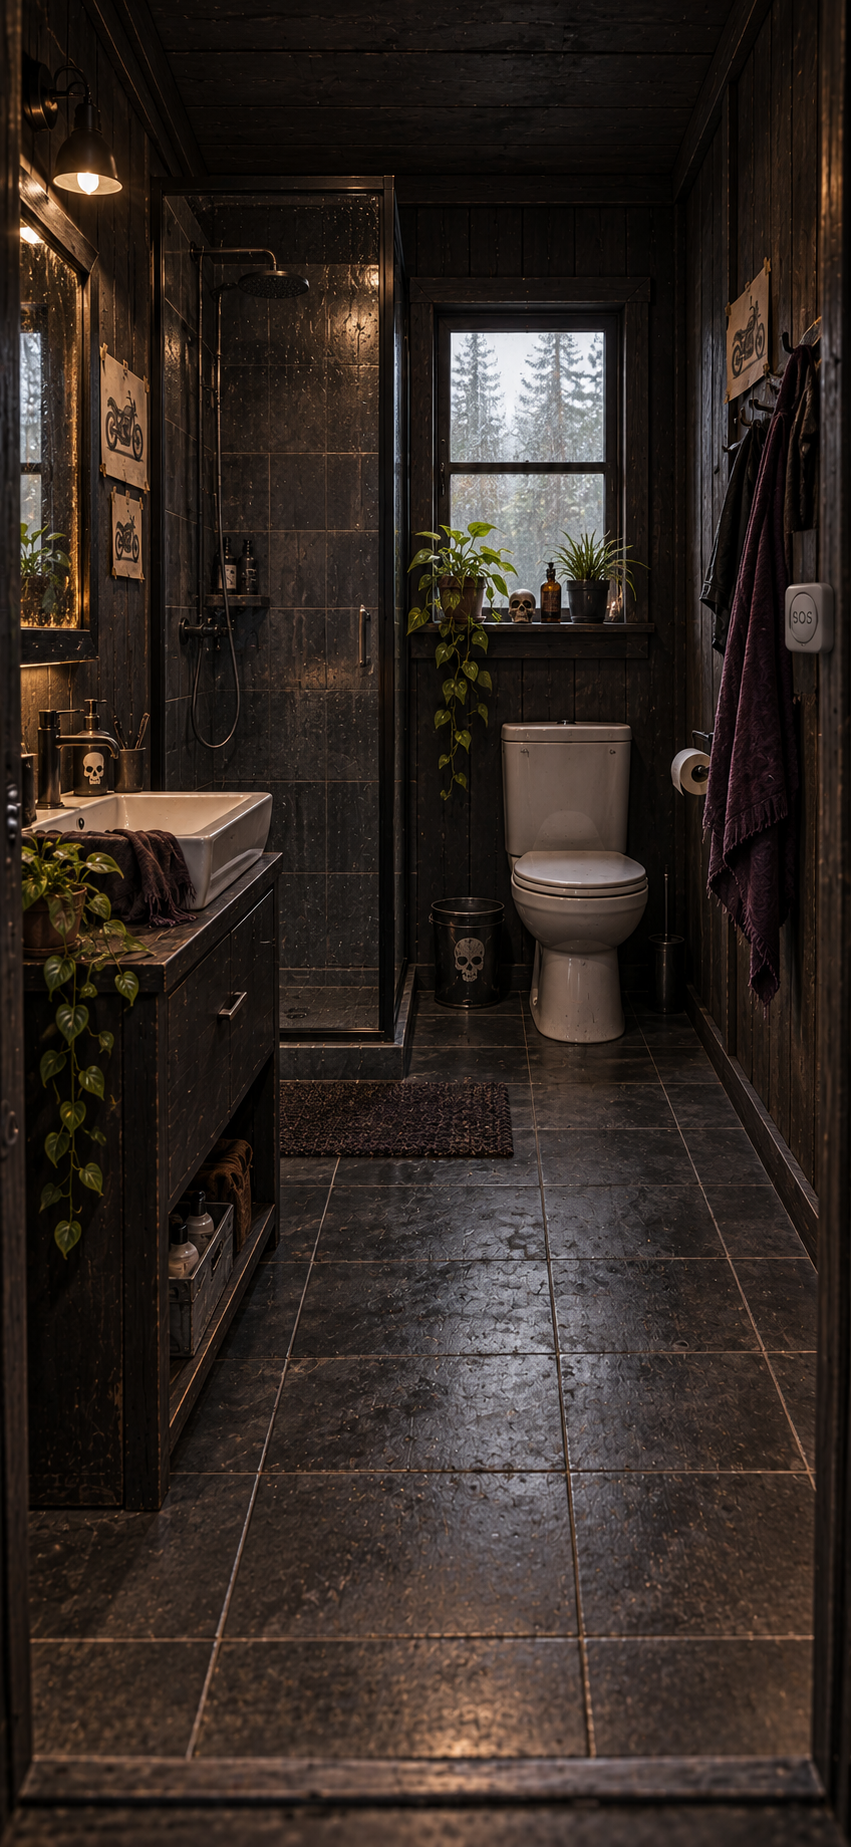
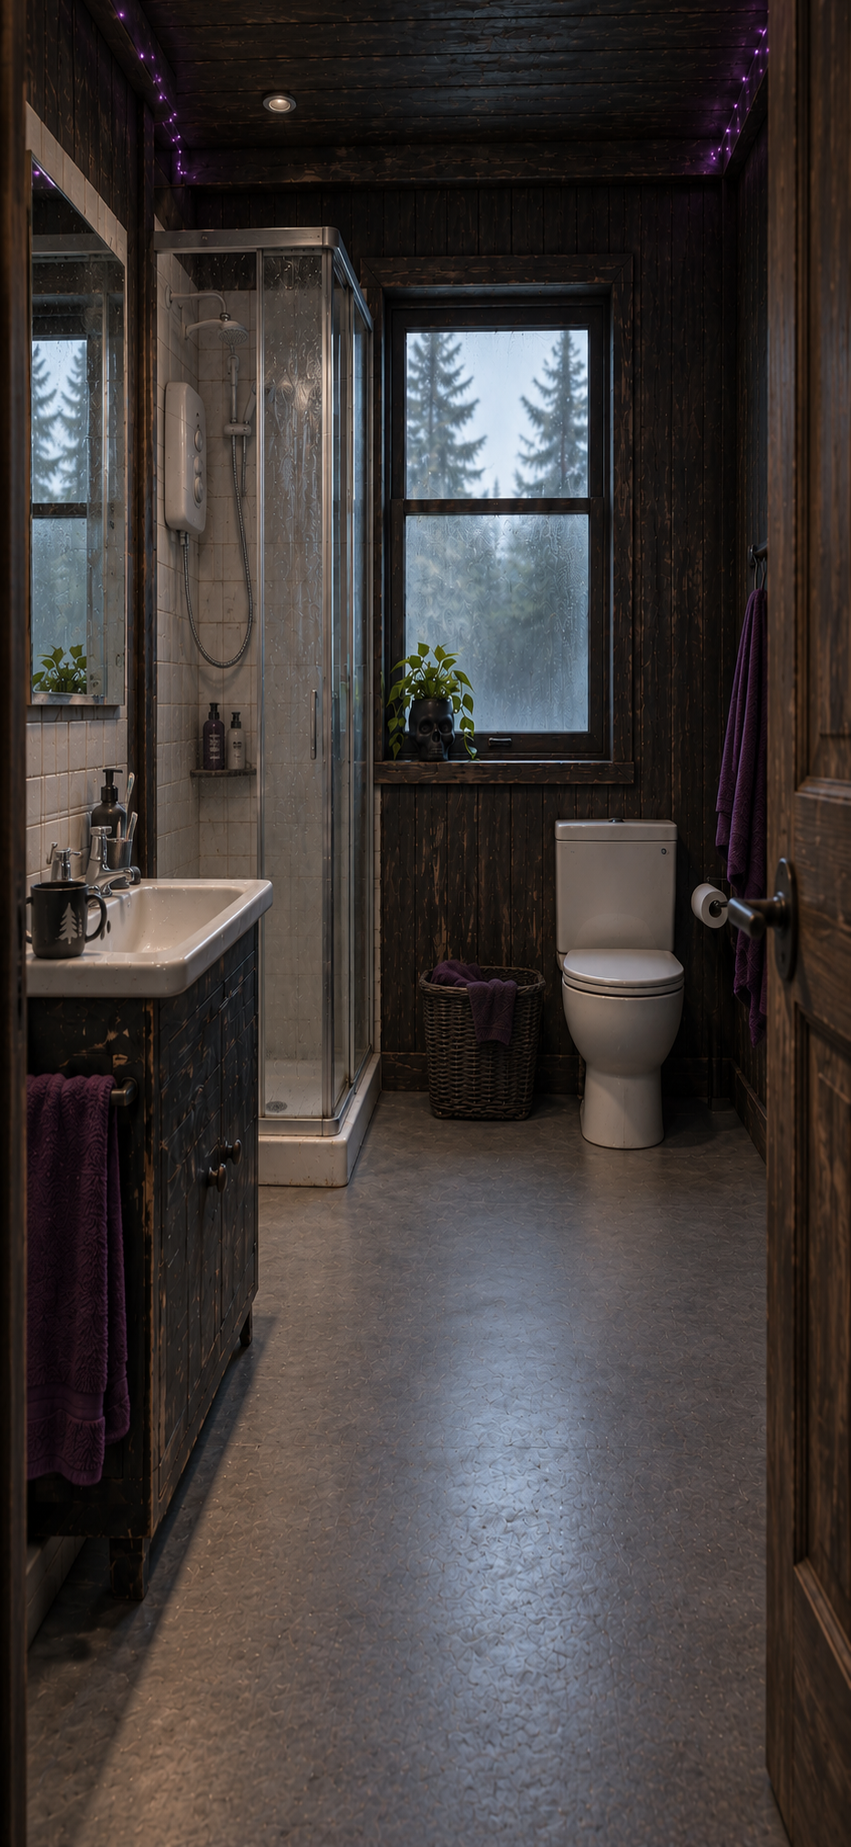
feat(hub): v6 cabin — new 'sitting in it' art + real two-floor house
Install the v6 downstairs + upstairs art (all 851x1847, new first-person
'using the house' perspective) and rebuild the floorplan as discrete rooms
behind signed doors instead of one flat panorama:

DOWNSTAIRS: living room (home/start) with doors to the games room, the
kitchen, out to the woods (glass front door -> forest walk), and the stairs up.
UPSTAIRS: stairs land on a new 3-view LANDING; its signed doors open the study,
your room, and the single-view bathroom. Each room is its own 3-view space
(front + left/right) that you enter by a door and leave via Back.

Only the connective navigation is baked (doors/stairs/pans/backs), with door
coords read off the art by eye — to be nudged onto the exact doors in the
editor. All feature hotspots and the 'need a minute?' keys are placed in-editor.

Claude-Session: https://claude.ai/code/session_01KKhQMghLUspva6Yzs31jQ3

diff --git a/src/data/hubScene.ts b/src/data/hubScene.ts
@@ -207,241 +207,188 @@ export const HUB_NODES: Record<string, HubNode> = {
   },
 
   // === THE CABIN (home, not reception) ======================================
-  // Two floors wired like a real house. DOWNSTAIRS is one panorama you swipe
-  // through: entertainment <- living room (home/start) -> kitchen. UPSTAIRS the
-  // same: study (where the stairs land) -> your room -> bathroom. The living room
-  // holds the only two navigation hotspots: the stairs (up) and the front door
-  // (out into the woods = urge flow). Back returns home. Every other view is empty,
-  // for you to place feature hotspots in the editor.
-  entertainment_left: {
-    id: "entertainment_left",
-    title: "Entertainment",
-    image: require("../../assets/scenes/entertainment_left.png"),
-    imgW: 851,
-    imgH: 1847,
-    fit: "screen",
-    right: "entertainment_front",
-    back: "living_room_front",
-    hotspots: [],
-  },
-  entertainment_front: {
-    id: "entertainment_front",
-    title: "Entertainment",
-    image: require("../../assets/scenes/entertainment_front.png"),
-    imgW: 851,
-    imgH: 1847,
-    fit: "screen",
-    left: "entertainment_left",
-    right: "entertainment_right",
-    back: "living_room_front",
-    hotspots: [],
-  },
-  entertainment_right: {
-    id: "entertainment_right",
-    title: "Entertainment",
-    image: require("../../assets/scenes/entertainment_right.png"),
-    imgW: 851,
-    imgH: 1847,
-    fit: "screen",
-    left: "entertainment_front",
-    right: "living_room_left",
-    back: "living_room_front",
-    hotspots: [],
+  // A real two-floor house of discrete rooms behind signed doors — the doodle on
+  // each door IS the wayfinding (controller = games, mug = kitchen, bed = your
+  // room, toilet = bathroom). You SIT in each room (first-person "using the
+  // house", so a sofa/blanket fills the foreground) and look around its own three
+  // views (front + left/right pans). DOWNSTAIRS: the living room (home/start),
+  // with doors to the games room, the kitchen, out to the woods (the glass front
+  // door), and up the stairs. UPSTAIRS: the stairs land on a LANDING, whose doors
+  // open the study, your room, and the single-view bathroom.
+  //
+  // Only the connective navigation (doors, stairs, pans, Back) is baked here, and
+  // the door coordinates were read off the art by eye — nudge them onto the exact
+  // doors in the editor. Every FEATURE hotspot (goals, the computer, the games,
+  // the drinks menu...) and the "need a minute?" keys get placed in the editor.
+
+  // --- Downstairs: Living Room (home / start) ------------------------------
+  living_room_front: {
+    id: "living_room_front",
+    title: "Living Room",
+    image: require("../../assets/scenes/living_room_front.png"),
+    imgW: 851, imgH: 1847, fit: "screen",
+    left: "living_room_left",
+    right: "living_room_right",
+    hotspots: [
+      { id: "lrf_door_entertainment", caption: "Games room", kind: "glow", interaction: "destination", haptic: "medium", x: 0.13, y: 0.23, w: 0.18, h: 0.40, action: { kind: "node", node: "entertainment_front" } },
+      { id: "lrf_door_kitchen", caption: "Kitchen", kind: "glow", interaction: "destination", haptic: "medium", x: 0.70, y: 0.23, w: 0.19, h: 0.40, action: { kind: "node", node: "kitchen_front" } },
+    ],
   },
   living_room_left: {
     id: "living_room_left",
     title: "Living Room",
     image: require("../../assets/scenes/living_room_left.png"),
-    imgW: 851,
-    imgH: 1847,
-    fit: "screen",
+    imgW: 851, imgH: 1847, fit: "screen",
     right: "living_room_front",
     back: "living_room_front",
     hotspots: [
-      { id: "lrl_entertainment", caption: "Entertainment", kind: "glow", tint: "purple", interaction: "destination", haptic: "medium", glowScale: 0.8, glowMax: 0.3, x: 0.91, y: 0.217, w: 0.081, h: 0.178, action: { kind: "node", node: "entertainment_front" } },
-      { id: "lrl_goals", caption: "Looking forward to", kind: "glow", tint: "purple", interaction: "object", haptic: "light", glowScale: 0.8, glowMax: 0.5, x: 0.61, y: 0.365, w: 0.21, h: 0.096, action: { kind: "route", route: "/goals" } },
-      { id: "lrl_resources", caption: "Extra support", kind: "glow", tint: "warm", interaction: "object", haptic: "light", glowScale: 0.8, glowMax: 0.6, x: 0.821, y: 0.503, w: 0.146, h: 0.07, action: { kind: "route", route: "/resources/home" } },
-      { id: "lrl_woods", caption: "Into the woods", kind: "glow", tint: "warm", interaction: "destination", haptic: "medium", glowScale: 0.8, glowMax: 0.6, x: 0.022, y: 0.474, w: 0.16, h: 0.16, action: { kind: "node", node: "forest_canopy" } },
-      { id: "lrl_sos", caption: "I need help now", kind: "glow", tint: "purple", interaction: "destination", haptic: "heavy", glowScale: 0.8, glowMax: 0.6, x: 0.764, y: 0.247, w: 0.132, h: 0.062, action: { kind: "forest", mode: "jump" } },
-      { id: "lrl_recovery", caption: "Recovery", kind: "glow", tint: "purple", interaction: "object", haptic: "light", glowScale: 0.8, glowMax: 0.4, x: 0.282, y: 0.357, w: 0.182, h: 0.111, action: { kind: "route", route: "/support/recovery" } },
-      { id: "lrl_sos2", caption: "I need help now", kind: "glow", tint: "purple", interaction: "destination", haptic: "heavy", glowScale: 0.8, glowMax: 0.4, x: 0.017, y: 0.274, w: 0.117, h: 0.062, action: { kind: "forest", mode: "jump" } },
-    ],
-  },
-  living_room_front: {
-    id: "living_room_front",
-    title: "Living Room",
-    image: require("../../assets/scenes/living_room_front.png"),
-    imgW: 851,
-    imgH: 1847,
-    fit: "screen",
-    left: "living_room_left",
-    right: "living_room_right",
-    hotspots: [
-      { id: "lr_upstairs", caption: "Upstairs", kind: "glow", tint: "purple", interaction: "destination", haptic: "medium", glowScale: 0.7, glowMax: 0.4, x: 0.82, y: 0.037, w: 0.158, h: 0.401, action: { kind: "node", node: "study_front" } },
-      { id: "lr_outside", caption: "Outside", kind: "glow", tint: "warm", interaction: "destination", haptic: "heavy", glowScale: 0.7, glowMax: 0.4, x: 0.06, y: 0.864, w: 0.873, h: 0.073, action: { kind: "forest", mode: "walk" } },
-      { id: "lrf_entertainment", caption: "Entertainment", kind: "glow", tint: "purple", interaction: "destination", haptic: "medium", glowScale: 0.8, glowMax: 0.3, x: 0.429, y: 0.196, w: 0.108, h: 0.176, action: { kind: "node", node: "entertainment_front" } },
-      { id: "lrf_kitchen", caption: "Kitchen", kind: "glow", tint: "warm", interaction: "destination", haptic: "medium", glowScale: 0.8, glowMax: 0.4, x: 0.629, y: 0.215, w: 0.16, h: 0.16, action: { kind: "node", node: "kitchen_left" } },
-      { id: "lrf_goals", caption: "Looking forward to", kind: "glow", tint: "warm", interaction: "object", haptic: "light", glowScale: 0.8, glowMax: 0.4, x: 0.099, y: 0.364, w: 0.228, h: 0.084, action: { kind: "route", route: "/goals" } },
-      { id: "lrf_resources", caption: "Extra support", kind: "glow", tint: "warm", interaction: "object", haptic: "light", glowScale: 0.8, glowMax: 0.5, x: 0.369, y: 0.439, w: 0.163, h: 0.068, action: { kind: "route", route: "/resources/home" } },
-      { id: "lrf_sos", caption: "I need help now", kind: "glow", tint: "purple", interaction: "destination", haptic: "heavy", glowScale: 0.8, glowMax: 0.5, x: 0.311, y: 0.248, w: 0.104, h: 0.04, action: { kind: "forest", mode: "jump" } },
+      { id: "lrl_door_entertainment", caption: "Games room", kind: "glow", interaction: "destination", haptic: "medium", x: 0.85, y: 0.28, w: 0.15, h: 0.42, action: { kind: "node", node: "entertainment_front" } },
     ],
   },
   living_room_right: {
     id: "living_room_right",
     title: "Living Room",
     image: require("../../assets/scenes/living_room_right.png"),
-    imgW: 851,
-    imgH: 1847,
-    fit: "screen",
+    imgW: 851, imgH: 1847, fit: "screen",
     left: "living_room_front",
-    right: "kitchen_front",
     back: "living_room_front",
     hotspots: [
-      { id: "lrr_study", caption: "Upstairs", kind: "glow", tint: "purple", interaction: "destination", haptic: "medium", glowScale: 0.8, glowMax: 0.4, x: 0.485, y: 0.056, w: 0.156, h: 0.162, action: { kind: "node", node: "study_front" } },
-      { id: "lrr_kitchen", caption: "Kitchen", kind: "glow", tint: "warm", interaction: "destination", haptic: "medium", glowScale: 0.8, glowMax: 0.3, x: 0.147, y: 0.185, w: 0.119, h: 0.197, action: { kind: "node", node: "kitchen_left" } },
-      { id: "lrr_entertainment", caption: "Entertainment", kind: "glow", tint: "purple", interaction: "destination", haptic: "medium", glowScale: 0.8, glowMax: 0.4, x: 0.006, y: 0.175, w: 0.065, h: 0.197, action: { kind: "node", node: "entertainment_front" } },
-      { id: "lrr_sos", caption: "I need help now", kind: "glow", tint: "purple", interaction: "destination", haptic: "heavy", glowScale: 0.8, glowMax: 0.5, x: 0.312, y: 0.224, w: 0.116, h: 0.059, action: { kind: "forest", mode: "jump" } },
-      { id: "lrr_resources", caption: "Extra support", kind: "glow", tint: "warm", interaction: "object", haptic: "light", glowScale: 0.8, glowMax: 0.5, x: 0.201, y: 0.463, w: 0.172, h: 0.077, action: { kind: "route", route: "/resources/home" } },
-      { id: "lrr_recommendations", caption: "Recommendations", kind: "glow", tint: "purple", interaction: "object", haptic: "light", glowScale: 0.8, glowMax: 0.5, x: 0.674, y: 0.348, w: 0.088, h: 0.133, action: { kind: "route", route: "/support/recommendations" } },
-      { id: "lrr_bar", caption: "Drinks menu", kind: "glow", tint: "warm", interaction: "object", haptic: "light", glowScale: 0.8, glowMax: 0.5, x: 0.715, y: 0.281, w: 0.298, h: 0.067, action: { kind: "route", route: "/bar/menu" } },
-      { id: "lrr_woods", caption: "Into the woods", kind: "glow", tint: "warm", interaction: "destination", haptic: "medium", glowScale: 0.8, glowMax: 0.5, x: -0.004, y: 0.555, w: 0.14, h: 0.094, action: { kind: "node", node: "forest_canopy" } },
-      { id: "lrr_coach", caption: "AI Coach", kind: "glow", tint: "warm", interaction: "object", haptic: "light", glowScale: 0.8, glowMax: 0.4, x: 0.79, y: 0.473, w: 0.16, h: 0.16, action: { kind: "route", route: "/support/coach" } },
+      { id: "lrr_door_woods", caption: "Out to the woods", kind: "glow", interaction: "destination", haptic: "medium", x: 0.27, y: 0.19, w: 0.25, h: 0.40, action: { kind: "forest", mode: "walk" } },
+      { id: "lrr_stairs", caption: "Upstairs", kind: "glow", interaction: "destination", haptic: "medium", x: 0.63, y: 0.16, w: 0.35, h: 0.52, action: { kind: "node", node: "landing_front" } },
+      { id: "lrr_door_kitchen", caption: "Kitchen", kind: "glow", interaction: "destination", haptic: "medium", x: 0.0, y: 0.22, w: 0.14, h: 0.42, action: { kind: "node", node: "kitchen_front" } },
     ],
   },
+
+  // --- Downstairs: Games Room ----------------------------------------------
+  entertainment_left: {
+    id: "entertainment_left", title: "Games Room",
+    image: require("../../assets/scenes/entertainment_left.png"),
+    imgW: 851, imgH: 1847, fit: "screen",
+    right: "entertainment_front", back: "living_room_front",
+    hotspots: [],
+  },
+  entertainment_front: {
+    id: "entertainment_front", title: "Games Room",
+    image: require("../../assets/scenes/entertainment_front.png"),
+    imgW: 851, imgH: 1847, fit: "screen",
+    left: "entertainment_left", right: "entertainment_right", back: "living_room_front",
+    hotspots: [],
+  },
+  entertainment_right: {
+    id: "entertainment_right", title: "Games Room",
+    image: require("../../assets/scenes/entertainment_right.png"),
+    imgW: 851, imgH: 1847, fit: "screen",
+    left: "entertainment_front", back: "living_room_front",
+    hotspots: [],
+  },
+
+  // --- Downstairs: Kitchen -------------------------------------------------
   kitchen_left: {
-    id: "kitchen_left",
-    title: "Kitchen",
+    id: "kitchen_left", title: "Kitchen",
     image: require("../../assets/scenes/kitchen_left.png"),
-    imgW: 851,
-    imgH: 1847,
-    fit: "screen",
-    right: "kitchen_front",
-    back: "living_room_front",
-    hotspots: [
-      { id: "kl_recommendations", caption: "Recommendations", kind: "glow", tint: "purple", interaction: "object", haptic: "light", glowScale: 0.8, glowMax: 0.5, x: 0.413, y: 0.26, w: 0.119, h: 0.141, action: { kind: "route", route: "/support/recommendations" } },
-      { id: "kl_resources", caption: "Extra support", kind: "glow", tint: "purple", interaction: "object", haptic: "light", glowScale: 0.8, glowMax: 0.6, x: 0.352, y: 0.457, w: 0.185, h: 0.068, action: { kind: "route", route: "/resources/home" } },
-      { id: "kl_mentors", caption: "Mentors", kind: "glow", tint: "warm", interaction: "object", haptic: "light", glowScale: 0.8, glowMax: 0.5, x: 0.036, y: 0.262, w: 0.301, h: 0.144, action: { kind: "route", route: "/support/mentors" } },
-      { id: "kl_sos", caption: "I need help now", kind: "glow", tint: "purple", interaction: "destination", haptic: "heavy", glowScale: 0.8, glowMax: 0.5, x: 0.755, y: 0.239, w: 0.117, h: 0.066, action: { kind: "forest", mode: "jump" } },
-    ],
+    imgW: 851, imgH: 1847, fit: "screen",
+    right: "kitchen_front", back: "living_room_front",
+    hotspots: [],
   },
   kitchen_front: {
-    id: "kitchen_front",
-    title: "Kitchen",
+    id: "kitchen_front", title: "Kitchen",
     image: require("../../assets/scenes/kitchen_front.png"),
-    imgW: 851,
-    imgH: 1847,
-    fit: "screen",
-    left: "kitchen_left",
-    right: "kitchen_right",
-    back: "living_room_front",
-    hotspots: [
-      { id: "kf_woods", caption: "Into the woods", kind: "glow", tint: "warm", interaction: "destination", haptic: "medium", glowScale: 0.8, glowMax: 0.5, x: 0.904, y: 0.168, w: 0.09, h: 0.3, action: { kind: "node", node: "forest_canopy" } },
-      { id: "kf_connections", caption: "Your people", kind: "glow", tint: "warm", interaction: "object", haptic: "light", glowScale: 0.8, glowMax: 0.5, x: 0.71, y: 0.34, w: 0.162, h: 0.039, action: { kind: "route", route: "/profile/connections" } },
-      { id: "kf_resources", caption: "Extra support", kind: "glow", tint: "purple", interaction: "object", haptic: "light", glowScale: 0.8, glowMax: 0.5, x: 0.117, y: 0.378, w: 0.15, h: 0.075, action: { kind: "route", route: "/resources/home" } },
-      { id: "kf_recommendations", caption: "Recommendations", kind: "glow", tint: "purple", interaction: "object", haptic: "light", glowScale: 0.8, glowMax: 0.5, x: 0.087, y: 0.202, w: 0.115, h: 0.155, action: { kind: "route", route: "/support/recommendations" } },
-      { id: "kf_sos", caption: "I need help now", kind: "glow", tint: "purple", interaction: "destination", haptic: "heavy", glowScale: 0.8, glowMax: 0.6, x: 0.758, y: 0.239, w: 0.146, h: 0.063, action: { kind: "forest", mode: "jump" } },
-    ],
+    imgW: 851, imgH: 1847, fit: "screen",
+    left: "kitchen_left", right: "kitchen_right", back: "living_room_front",
+    hotspots: [],
   },
   kitchen_right: {
-    id: "kitchen_right",
-    title: "Kitchen",
+    id: "kitchen_right", title: "Kitchen",
     image: require("../../assets/scenes/kitchen_right.png"),
-    imgW: 851,
-    imgH: 1847,
-    fit: "screen",
-    left: "kitchen_front",
-    back: "living_room_front",
+    imgW: 851, imgH: 1847, fit: "screen",
+    left: "kitchen_front", back: "living_room_front",
+    hotspots: [],
+  },
+
+  // --- Upstairs: Landing (where the stairs land) ---------------------------
+  landing_front: {
+    id: "landing_front", title: "Landing",
+    image: require("../../assets/scenes/landing_front.png"),
+    imgW: 851, imgH: 1847, fit: "screen",
+    left: "landing_left", right: "landing_right", back: "living_room_front",
     hotspots: [
-      { id: "kr_woods", caption: "Into the woods", kind: "glow", tint: "warm", interaction: "destination", haptic: "medium", glowScale: 0.8, glowMax: 0.5, x: 0.393, y: 0.179, w: 0.169, h: 0.273, action: { kind: "node", node: "forest_canopy" } },
-      { id: "kr_sos", caption: "I need help now", kind: "glow", tint: "purple", interaction: "destination", haptic: "heavy", glowScale: 0.8, glowMax: 0.5, x: 0.771, y: 0.227, w: 0.15, h: 0.085, action: { kind: "forest", mode: "jump" } },
-      { id: "kr_track", caption: "Tonight", kind: "glow", tint: "warm", interaction: "object", haptic: "light", glowScale: 0.8, glowMax: 0.5, x: 0.192, y: 0.337, w: 0.161, h: 0.039, action: { kind: "route", route: "/session/track" } },
-      { id: "kr_resources", caption: "Extra support", kind: "glow", tint: "purple", interaction: "object", haptic: "light", glowScale: 0.8, glowMax: 0.6, x: -0.022, y: 0.474, w: 0.121, h: 0.061, action: { kind: "route", route: "/resources/home" } },
+      { id: "ldf_door_study", caption: "Study", kind: "glow", interaction: "destination", haptic: "medium", x: 0.33, y: 0.21, w: 0.30, h: 0.44, action: { kind: "node", node: "study_front" } },
+      { id: "ldf_door_room", caption: "Your room", kind: "glow", interaction: "destination", haptic: "medium", x: 0.0, y: 0.22, w: 0.12, h: 0.42, action: { kind: "node", node: "me_room_front" } },
     ],
   },
+  landing_left: {
+    id: "landing_left", title: "Landing",
+    image: require("../../assets/scenes/landing_left.png"),
+    imgW: 851, imgH: 1847, fit: "screen",
+    right: "landing_front", back: "living_room_front",
+    hotspots: [
+      { id: "ldl_door_room", caption: "Your room", kind: "glow", interaction: "destination", haptic: "medium", x: 0.37, y: 0.21, w: 0.33, h: 0.45, action: { kind: "node", node: "me_room_front" } },
+    ],
+  },
+  landing_right: {
+    id: "landing_right", title: "Landing",
+    image: require("../../assets/scenes/landing_right.png"),
+    imgW: 851, imgH: 1847, fit: "screen",
+    left: "landing_front", back: "living_room_front",
+    hotspots: [
+      { id: "ldr_door_bathroom", caption: "Bathroom", kind: "glow", interaction: "destination", haptic: "medium", x: 0.27, y: 0.17, w: 0.35, h: 0.52, action: { kind: "node", node: "bathroom" } },
+    ],
+  },
+
+  // --- Upstairs: Study (read / write / reach out) --------------------------
   study_left: {
-    id: "study_left",
-    title: "Study",
+    id: "study_left", title: "Study",
     image: require("../../assets/scenes/study_left.png"),
-    imgW: 851,
-    imgH: 1847,
-    fit: "screen",
-    right: "study_front",
-    back: "living_room_front",
+    imgW: 851, imgH: 1847, fit: "screen",
+    right: "study_front", back: "landing_front",
     hotspots: [],
   },
   study_front: {
-    id: "study_front",
-    title: "Study",
+    id: "study_front", title: "Study",
     image: require("../../assets/scenes/study_front.png"),
-    imgW: 851,
-    imgH: 1847,
-    fit: "screen",
-    left: "study_left",
-    right: "study_right",
-    back: "living_room_front",
+    imgW: 851, imgH: 1847, fit: "screen",
+    left: "study_left", right: "study_right", back: "landing_front",
     hotspots: [],
   },
   study_right: {
-    id: "study_right",
-    title: "Study",
+    id: "study_right", title: "Study",
     image: require("../../assets/scenes/study_right.png"),
-    imgW: 851,
-    imgH: 1847,
-    fit: "screen",
-    left: "study_front",
-    right: "me_room_left",
-    back: "living_room_front",
+    imgW: 851, imgH: 1847, fit: "screen",
+    left: "study_front", back: "landing_front",
     hotspots: [],
   },
+
+  // --- Upstairs: Your Room -------------------------------------------------
   me_room_left: {
-    id: "me_room_left",
-    title: "Your Room",
+    id: "me_room_left", title: "Your Room",
     image: require("../../assets/scenes/me_room_left.png"),
-    imgW: 851,
-    imgH: 1847,
-    fit: "screen",
-    left: "study_right",
-    right: "me_room_front",
-    back: "living_room_front",
+    imgW: 851, imgH: 1847, fit: "screen",
+    right: "me_room_front", back: "landing_front",
     hotspots: [],
   },
   me_room_front: {
-    id: "me_room_front",
-    title: "Your Room",
+    id: "me_room_front", title: "Your Room",
     image: require("../../assets/scenes/me_room_front.png"),
-    imgW: 851,
-    imgH: 1847,
-    fit: "screen",
-    left: "me_room_left",
-    right: "me_room_right",
-    back: "living_room_front",
+    imgW: 851, imgH: 1847, fit: "screen",
+    left: "me_room_left", right: "me_room_right", back: "landing_front",
     hotspots: [],
   },
   me_room_right: {
-    id: "me_room_right",
-    title: "Your Room",
+    id: "me_room_right", title: "Your Room",
     image: require("../../assets/scenes/me_room_right.png"),
-    imgW: 851,
-    imgH: 1847,
-    fit: "screen",
-    left: "me_room_front",
-    right: "bathroom",
-    back: "living_room_front",
+    imgW: 851, imgH: 1847, fit: "screen",
+    left: "me_room_front", back: "landing_front",
     hotspots: [],
   },
-  // The bathroom is a SINGLE view — you open the door, glance in, and the urge
-  // keys are there if you need them, but there's nothing to do on the toilet, so
-  // it doesn't earn left/right. Pan left to step back out; Back goes home. (Full
-  // door-off-the-landing wiring comes when the new upstairs art + landing land.)
+
+  // --- Upstairs: Bathroom (single view) ------------------------------------
+  // Open the door, glance in, the keys are there if you need them. Nothing to do
+  // on the toilet, so it doesn't earn left/right. Back returns to the landing.
   bathroom: {
-    id: "bathroom",
-    title: "Bathroom",
+    id: "bathroom", title: "Bathroom",
     image: require("../../assets/scenes/bathroom_front.png"),
-    imgW: 851,
-    imgH: 1847,
-    fit: "screen",
-    left: "me_room_right",
-    back: "living_room_front",
+    imgW: 851, imgH: 1847, fit: "screen",
+    back: "landing_front",
     hotspots: [],
   },
 };
